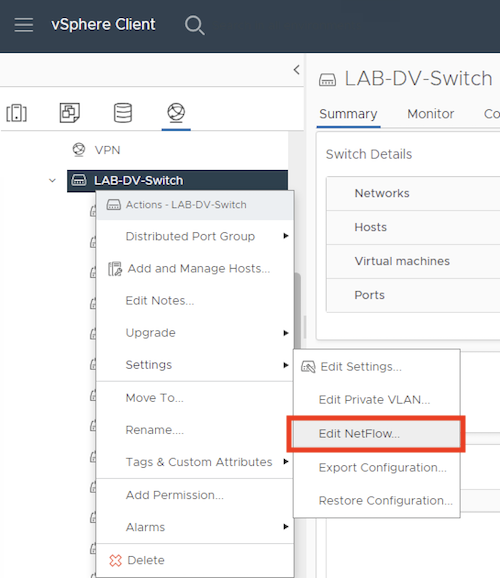
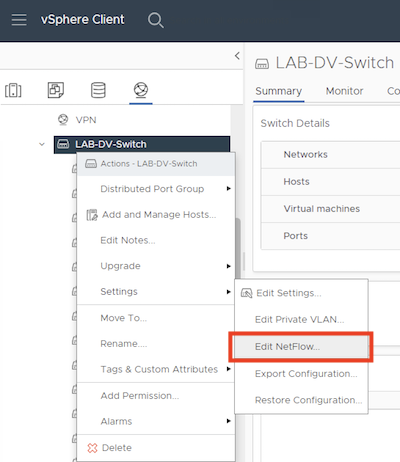
Updates

diff --git a/Flowlink-VDS.md b/Flowlink-VDS.md
@@ -19,4 +19,11 @@ https://techdocs.broadcom.com/us/en/vmware-cis/vsphere/vsphere/8-0/vsphere-netwo
 
 
 ## Setup
-![Alt text](/Images/vds-edit-netflow.png?raw=true "Optional Title")
+![Alt text](/Images/vds-edit-netflow.png?raw=true "Select VDS")
+![Alt text](/Images/vds-config.png?raw=true "VDS Configuration")
+![Alt text](/Images/dvpg-config.png?raw=true "dvPG Configuration")
+
+---------------
+Important!!
+To enable NetFlow on a vSphere Distributed Switch (VDS) port group for bidirectional traffic monitoring, enable NetFlow on both the port group and the uplink port groups to capture traffic entering and exiting the virtual network. 
+---------------

diff --git a/README.md b/README.md
@@ -158,3 +158,5 @@ Stop Flowlink service
 ```
 illumio-flowlink-ctl stop
 ```
+## Final thoughts
+Make sure to create unmanaged workloads or flows will not appear in the PCE!
